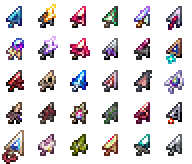
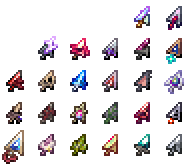
常规同步

diff --git a/Content/Items/Clickers/MagicCrystalClicker.cs b/Content/Items/Clickers/MagicCrystalClicker.cs
@@ -1,0 +1,32 @@
+using Coralite.Content.Items.MagikeSeries1;
+using Coralite.Content.Raritys;
+using CoraliteExtension.Content.Compats;
+using CoraliteExtension.Core;
+using Terraria.ID;
+using Terraria.ModLoader;
+
+namespace CoraliteExtension.Content.Items.Clickers
+{
+    public class MagicCrystalClicker() : BaseClickerWeapon(1.8f, Coralite.Coralite.MagicCrystalPink, DustID.PinkTorch, 7)
+    {
+        public override string Texture => AssetDirectoryEX.ClickerItems + Name;
+
+        public override void SetOtherDefaults()
+        {
+            ClickerCompat.AddEffect(Item, "ClickerClass:DoubleClick");
+
+            Item.SetShopValues(Terraria.Enums.ItemRarityColor.Green2, Item.sellPrice(0, 0, 20));
+
+            Item.rare = ModContent.RarityType<MagicCrystalRarity>();
+        }
+
+        public override void AddRecipes()
+        {
+            CreateRecipe()
+                .AddIngredient<MagicCrystal>(5)
+                .AddIngredient<Basalt>(10)
+                .AddTile(TileID.Anvils)
+                .Register();
+        }
+    }
+}

diff --git a/Content/Items/Clickers/ThunderClicker.cs b/Content/Items/Clickers/ThunderClicker.cs
@@ -3,7 +3,6 @@ using Coralite.Content.Items.Thunder;
 using Coralite.Core;
 using Coralite.Helpers;
 using CoraliteExtension.Content.Compats;
-using CoraliteExtension.Core;
 using InnoVault;
 using InnoVault.PRT;
 using Microsoft.Xna.Framework.Graphics;
@@ -12,27 +11,28 @@ using System;
 using System.Collections.Generic;
 using Terraria.DataStructures;
 using Terraria.ID;
-using Terraria.ModLoader;
 using static Terraria.ModLoader.ModContent;
 
 namespace CoraliteExtension.Content.Items.Clickers
 {
-    public class ThunderClicker() : BaseClickerWeapon(5.5f, Coralite.Coralite.ThunderveinYellow, DustID.YellowTorch, 52)
+    public class ThunderClicker() : BaseClickerWeapon(5.5f, Coralite.Coralite.ThunderveinYellow, DustID.YellowTorch, 51)
     {
         public static string ThunderEffect { get; private set; } = string.Empty;
+        public static readonly int DamageRatioPercent = 150;
 
         public override void SetOtherStaticDefaults()
         {
             string uniqueName = ClickerCompat.RegisterClickEffect(Mod, nameof(ThunderEffect), 10, Coralite.Coralite.ThunderveinYellow,
                 delegate (Player player, EntitySource_ItemUse_WithAmmo source, Vector2 position, int type, int damage, float knockBack)
                 {
-                    if (Helper.TryFindClosestEnemy(position, 400, n => n.CanBeChasedBy() && Collision.CanHit(position, 1, 1, n.Center, 1, 1), out NPC target))
+                    if (Helper.TryFindClosestEnemy(position, 400, n => n.CanBeChasedBy() && (Collision.CanHit(position, 1, 1, n.Center, 1, 1)||n.getRect().Contains(Main.MouseWorld.ToPoint())), out NPC target))
                     {
                         Projectile.NewProjectile(source, position, target.Center,
-                            ProjectileType<ThunderClickerProj>(), damage, 0, Main.myPlayer, 30, target.whoAmI);
+                            ProjectileType<ThunderClickerProj>(), (int)(damage * DamageRatioPercent / 100f), 0, Main.myPlayer, 30, target.whoAmI);
                     }
                 },
-            preHardMode: false);
+            preHardMode: false,
+            descriptionArgs: [DamageRatioPercent]);
 
             ThunderEffect = uniqueName;
         }
@@ -77,7 +77,7 @@ namespace CoraliteExtension.Content.Items.Clickers
             Projectile.tileCollide = false;
             Projectile.penetrate = -1;
             Projectile.usesIDStaticNPCImmunity = true;
-            Projectile.idStaticNPCHitCooldown = 11;
+            Projectile.idStaticNPCHitCooldown = 14;
         }
 
         public override bool? CanDamage()
@@ -91,7 +91,7 @@ namespace CoraliteExtension.Content.Items.Clickers
         public override bool? Colliding(Rectangle projHitbox, Rectangle targetHitbox)
         {
             float a = 0;
-            return Collision.CheckAABBvLineCollision(targetHitbox.TopLeft(), targetHitbox.Size(), Projectile.velocity, Projectile.Center, Projectile.width, ref a);
+            return targetHitbox .Intersects(projHitbox)|| Collision.CheckAABBvLineCollision(targetHitbox.TopLeft(), targetHitbox.Size(), Projectile.velocity, Projectile.Center, Projectile.width, ref a);
         }
 
         public override float ThunderWidthFunc_Sin(float factor)

diff --git a/Content/Items/Clickers/GlistentClicker.cs b/Content/Items/Clickers/GlistentClicker.cs
@@ -10,11 +10,11 @@ using Terraria.ModLoader;
 
 namespace CoraliteExtension.Content.Items.Clickers
 {
-    public class GlistentClicker() : BaseClickerWeapon(2.6f, Coralite.Coralite.GlistentGreen, DustID.GemEmerald, 7)
+    public class GlistentClicker() : BaseClickerWeapon(2.6f, Coralite.Coralite.GlistentGreen, DustID.GemEmerald, 12)
     {
         public override string Texture => AssetDirectoryEX.ClickerItems + Name;
 
-        public static readonly int DamageRatioPercent = 75;
+        public static readonly int DamageRatioPercent = 150;
 
         public static string GlistentEffect { get; private set; } = string.Empty;
 
@@ -96,9 +96,9 @@ namespace CoraliteExtension.Content.Items.Clickers
         {
             if (ClickerCompat.ClickerClass != null && npc.HasBuff<GlistentClickerDebuff>() && projectile.DamageType.CountsAsClass(ContentSamples.ItemsByType[ModContent.ItemType<GlistentClicker>()].DamageType) && projectile.type != ModContent.ProjectileType<GlistentClickerProj>())
             {
-                int damage = hit.Damage / 2;
-                if (damage > 20)
-                    damage = 20;
+                int damage = hit.Damage;
+                if (damage > 24)
+                    damage = 24;
 
                 npc.DelBuff(npc.FindBuffIndex(ModContent.BuffType<GlistentClickerDebuff>()));
                 Projectile.NewProjectile(Main.LocalPlayer.GetSource_FromThis(), npc.Center, Vector2.Zero,

diff --git a/Content/Items/Clickers/IcicleClicker.cs b/Content/Items/Clickers/IcicleClicker.cs
@@ -9,20 +9,14 @@ using Terraria.ModLoader;
 
 namespace CoraliteExtension.Content.Items.Clickers
 {
-    public class IcicleClicker() : BaseClickerWeapon(2.8f, Coralite.Coralite.IcicleCyan, DustID.ApprenticeStorm, 7)
+    public class IcicleClicker() : BaseClickerWeapon(2.8f, Coralite.Coralite.IcicleCyan, DustID.ApprenticeStorm, 17)
     {
         public override string Texture => AssetDirectoryEX.ClickerItems + Name;
 
         public static readonly int IcicleAmount = 3;
-        public static readonly int DamageRatioPercent = 50;
+        public static readonly int DamageRatioPercent = 125;
 
         public static string IcicleEffect { get; private set; } = string.Empty;
-
-        //Optional, if you only want this item to exist only when Clicker Class is enabled
-        public override bool IsLoadingEnabled(Mod mod)
-        {
-            return ClickerCompat.ClickerClass != null;
-        }
 
         public override void SetOtherStaticDefaults()
         {

diff --git a/Content/Items/Clickers/RedJadeClicker.cs b/Content/Items/Clickers/RedJadeClicker.cs
@@ -2,17 +2,16 @@ using Coralite.Content.Items.Icicle;
 using Coralite.Content.Items.RedJades;
 using Coralite.Helpers;
 using CoraliteExtension.Content.Compats;
-using CoraliteExtension.Core;
 using Terraria.DataStructures;
 using Terraria.ID;
 using Terraria.ModLoader;
 
 namespace CoraliteExtension.Content.Items.Clickers
 {
-    public class RedJadeClicker() : BaseClickerWeapon(1.8f, Coralite.Coralite.RedJadeRed, DustID.GemRuby, 5)
+    public class RedJadeClicker() : BaseClickerWeapon(1.8f, Coralite.Coralite.RedJadeRed, DustID.GemRuby, 11)
     {
         public static readonly int ExplodeChance = 50;
-        public static readonly int DamagePercent = 75;
+        public static readonly int DamagePercent = 150;
 
         public static string RedJadeEffect { get; private set; } = string.Empty;
 

diff --git a/Content/Items/Clickers/EmperorClicker.cs b/Content/Items/Clickers/EmperorClicker.cs
@@ -8,10 +8,10 @@ using Terraria.ModLoader;
 
 namespace CoraliteExtension.Content.Items.Clickers
 {
-    public class EmperorClicker() : BaseClickerWeapon(3.2f, Color.SkyBlue, DustID.Water, 9)
+    public class EmperorClicker() : BaseClickerWeapon(3.2f, Color.SkyBlue, DustID.Water, 21)
     {
         public static readonly int GelBallAmount = 4;
-        public static readonly int DamageRatioPercent = 50;
+        public static readonly int DamageRatioPercent = 100;
 
         public static string EmperorEffect { get; private set; } = string.Empty;
 